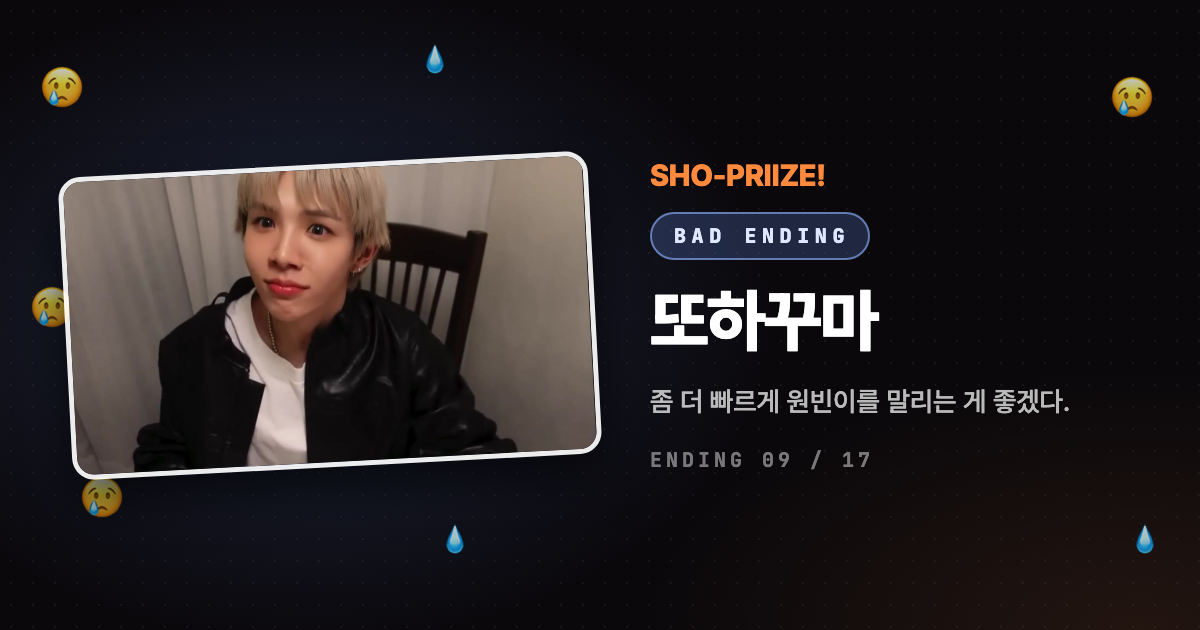
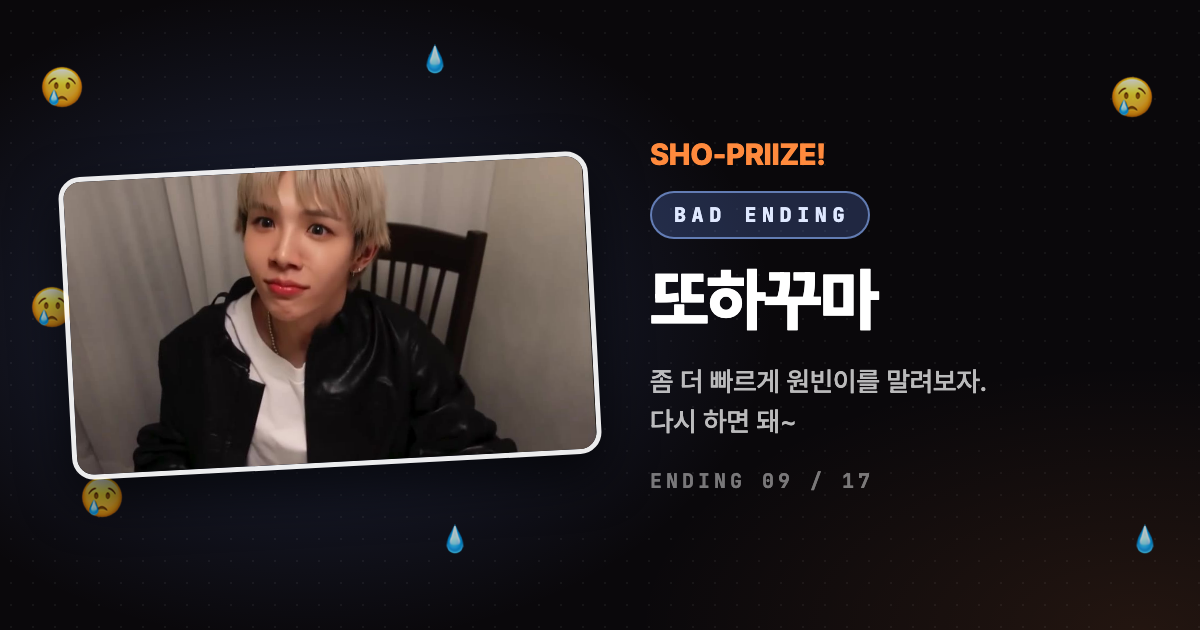
update 2026-11-23 21:39

Changed region(s): [[0.5242, 0.2111, 0.8942, 0.7841]]

diff --git a/e/e_bad_wonbin.html b/e/e_bad_wonbin.html
@@ -3,12 +3,12 @@
 <meta name="viewport" content="width=device-width, initial-scale=1">
 <meta property="og:type" content="website">
 <meta property="og:title" content="SHO-PRIIZE! — BAD ENDING : 또하꾸마">
-<meta property="og:description" content="좀 더 빠르게 원빈이를 말리는 게 좋겠다.">
+<meta property="og:description" content="좀 더 빠르게 원빈이를 말려보자. 다시 하면 돼~">
 <meta property="og:image" content="https://sho-priize.github.io/media/og/e_bad_wonbin.png">
 <meta property="og:url" content="https://sho-priize.github.io/e/e_bad_wonbin.html">
 <meta name="twitter:card" content="summary_large_image">
 <meta name="twitter:title" content="SHO-PRIIZE! — BAD ENDING : 또하꾸마">
-<meta name="twitter:description" content="좀 더 빠르게 원빈이를 말리는 게 좋겠다.">
+<meta name="twitter:description" content="좀 더 빠르게 원빈이를 말려보자. 다시 하면 돼~">
 <meta name="twitter:image" content="https://sho-priize.github.io/media/og/e_bad_wonbin.png">
 <meta http-equiv="refresh" content="0; url=../">
 <script>location.replace('../');</script>

diff --git a/index.html b/index.html
@@ -35,8 +35,8 @@
 <link rel="preconnect" href="https://fonts.googleapis.com">
 <link rel="preconnect" href="https://fonts.gstatic.com" crossorigin>
 <link href="https://fonts.googleapis.com/css2?family=JetBrains+Mono:wght@500;700&display=swap" rel="stylesheet">
-<link rel="stylesheet" href="css/style.css?v=1795437463">
-<link rel="stylesheet" href="css/phone.css?v=1795437463">
+<link rel="stylesheet" href="css/style.css?v=1795437547">
+<link rel="stylesheet" href="css/phone.css?v=1795437547">
 </head>
 <body>
 
@@ -85,7 +85,7 @@
   <div id="fade" class="on"></div>
 </main>
 
-<script src="js/story.js?v=1795437463"></script>
-<script src="js/engine.js?v=1795437463"></script>
+<script src="js/story.js?v=1795437547"></script>
+<script src="js/engine.js?v=1795437547"></script>
 </body>
 </html>

diff --git a/js/story.js b/js/story.js
@@ -835,7 +835,7 @@ window.STORY = {
       type: 'ending',
       title: '또하꾸마',
       route: { thumb: 'media/images/thumbs/e_bad_wonbin.jpg' },
-      desc: '좀 더 빠르게 원빈이를 말리는 게 좋겠다.',
+      desc: '좀 더 빠르게 원빈이를 말려보자.\n다시 하면 돼~',
       bg: ['#2a2a3a', '#06060c'],
       voice: {
         name: '쇼타로', avatar: 'media/images/voicephoto.jpg',
